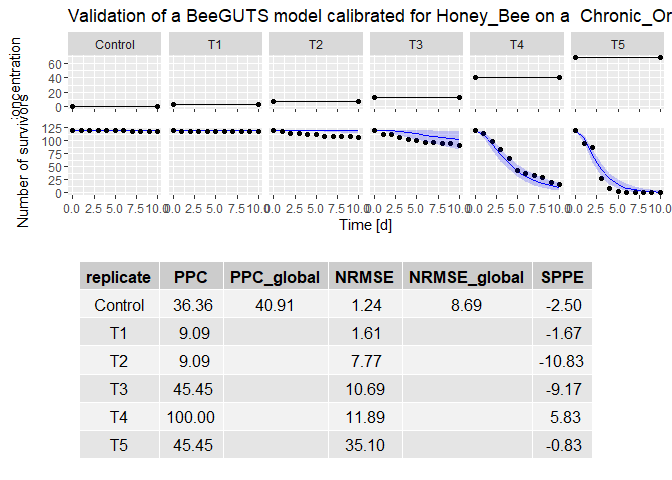
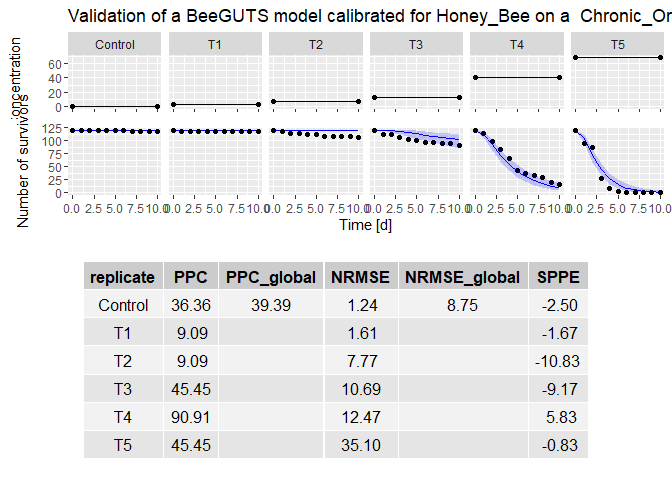
Update documentation for version 1.1.2

diff --git a/README.md b/README.md
@@ -58,12 +58,9 @@ plot(lsData) # Plot the data
 
 ``` r
 fit <- fitBeeGUTS(lsData, modelType = "SD", nIter = 3000) # Fit a SD model. This can take some time...
-#> Warning: Bulk Effective Samples Size (ESS) is too low, indicating posterior means and medians may be unreliable.
-#> Running the chains for more iterations may help. See
-#> http://mc-stan.org/misc/warnings.html#bulk-ess
 #> Warning: Tail Effective Samples Size (ESS) is too low, indicating posterior variances and tail quantiles may be unreliable.
 #> Running the chains for more iterations may help. See
-#> http://mc-stan.org/misc/warnings.html#tail-ess
+#> https://mc-stan.org/misc/warnings.html#tail-ess
 traceplot(fit) # Produce a diagnostic plot of the fit
 ```
 
@@ -100,17 +97,17 @@ summary(fit) # Gives a summary of the results
 #> 
 #> Posteriors of the parameters (quantiles) (select with '$Qposteriors'):
 #> 
-#>  parameters      median        Q2.5      Q97.5
-#>       hb[1] 6.88457e-03 3.48433e-03 1.0463e-02
 #>  parameters      median        Q2.5       Q97.5
-#>          kd 1.00987e+00 7.25197e-01 1.90307e+00
-#>          zw 9.46786e+00 5.96611e+00 1.12689e+01
-#>          bw 8.92361e-03 6.57105e-03 1.10876e-02
+#>       hb[1] 6.96115e-03 4.13864e-03 1.00067e-02
+#>  parameters      median        Q2.5       Q97.5
+#>          kd 9.95000e-01 7.31699e-01 1.75382e+00
+#>          zw 9.47898e+00 6.86992e+00 1.06977e+01
+#>          bw 8.93266e-03 6.98425e-03 1.06284e-02
 #> 
 #> 
-#>  Maximum Rhat computed (na.rm = TRUE): 1.02032 
-#>  Minimum Bulk_ESS: 261 
-#>  Minimum Tail_ESS: 124 
+#>  Maximum Rhat computed (na.rm = TRUE): 1.027004 
+#>  Minimum Bulk_ESS: 514 
+#>  Minimum Tail_ESS: 143 
 #>  Bulk_ESS and Tail_ESS are crude measures of effecting sampling size for
 #>       bulk and tail quantities respectively. An ESS > 100 per chain can be
 #>       considered as a good indicator. Rhat is an indicator of chains convergence.

diff --git a/cran-comments.md b/cran-comments.md
@@ -1,22 +1,25 @@
-# R CMD check results
+## Resubmission
+In this version we have reduced the size of the package as a response to the request from CRAN
 
-0 errors | 0 warnings | 2 note
+## R CMD check results
+
+0 errors | 0 warnings | 1 note
 
 * GNU make is a SystemRequirements
-* checking installed package size ... NOTE
-  installed size is 63.0Mb
-  sub-directories of 1Mb or more:
-    data   4.1Mb
-    libs  58.1Mb
 
-# Reverse dependencies
+
+## Reverse dependencies
 
 There are no reverse dependencies listed for BeeGUTS
 
 
-# Test environment
+## Test environment
 
-GitHub actions performed on 
+* local environment (Windows 10, R version 4.2.1 (2022-06-23 ucrt))
+
+* devtools::check_win_devel()
+
+* GitHub actions performed on 
 - macos-latest (release)
 - windows-latest (release)
 - ubuntu-latest (devel)

diff --git a/NEWS.md b/NEWS.md
@@ -1,3 +1,6 @@
+# Version 1.1.2
+* Reduce the size of the package to fulfil CRAN requirements
+
 # Version 1.1.1
 * Correction of the default value for parameter k_sr for _Honey Bee_.
 * Update of the Tutorial
